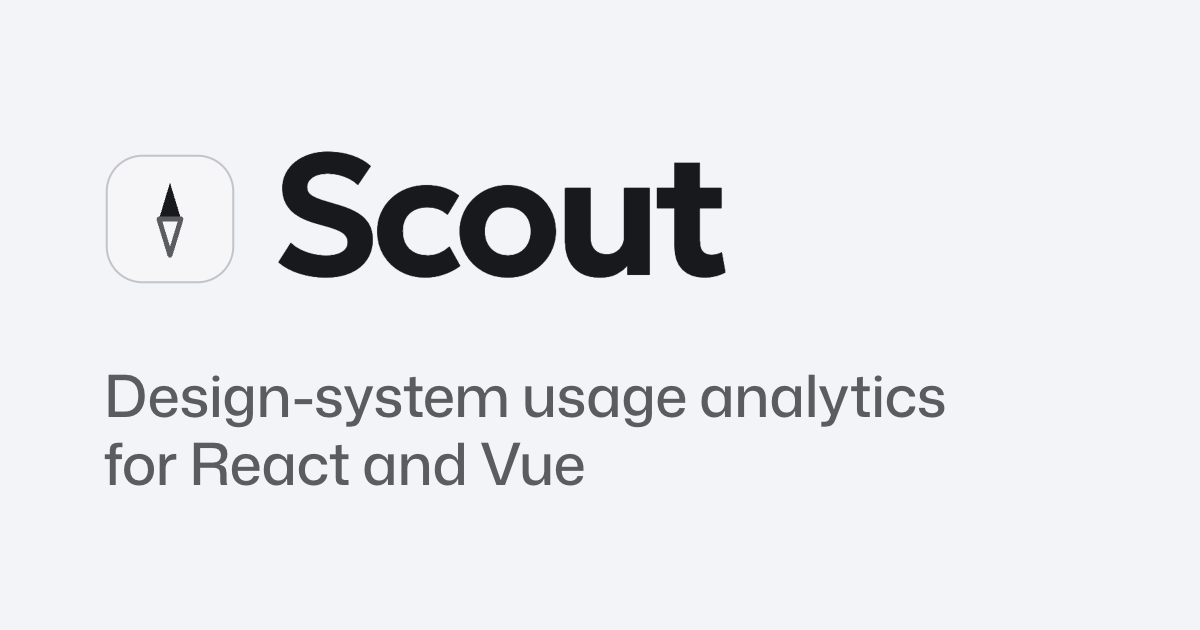
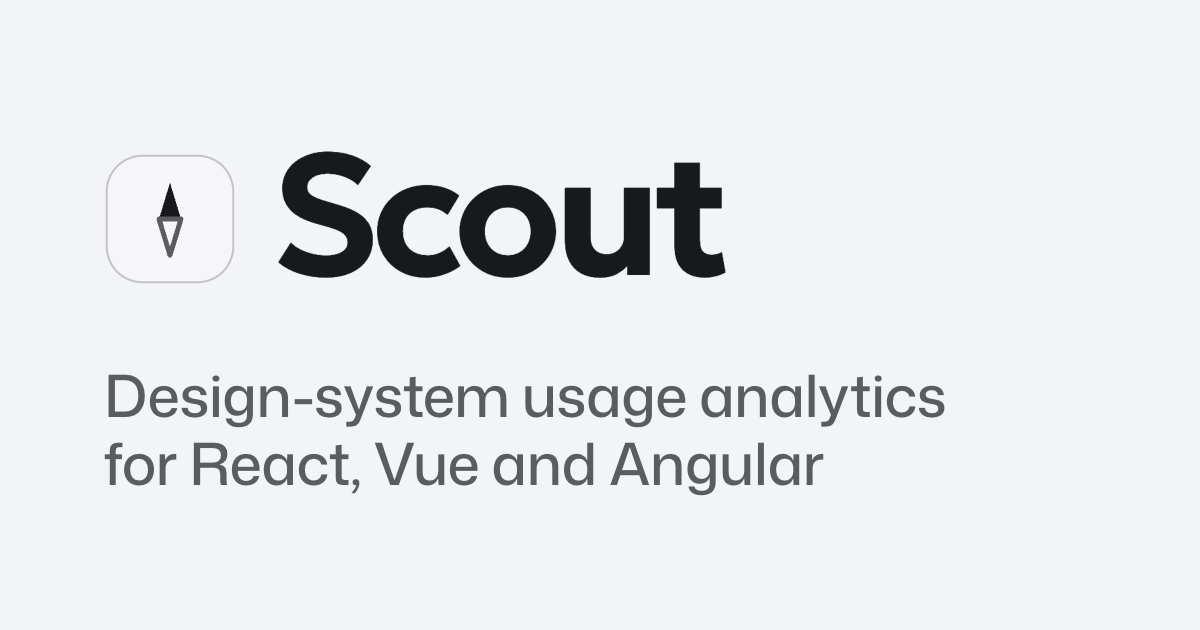
docs: mention Angular alongside React and Vue (#184)

Changed region(s): [[0.2775, 0.6937, 0.6783, 0.7841]]

diff --git a/apps/docs/src/pages/index.tsx b/apps/docs/src/pages/index.tsx
@@ -7,12 +7,12 @@ import Stages from "../components/landing/Stages";
 import { PRODUCT_NAME } from "../components/landing/product";
 import shared from "../components/landing/shared.module.css";
 
-const TITLE = `${PRODUCT_NAME}: design-system usage analytics for React and Vue`;
+const TITLE = `${PRODUCT_NAME}: design-system usage analytics for React, Vue and Angular`;
 
 export default function Home(): React.ReactElement {
   return (
     <Layout
-      description={`${PRODUCT_NAME} scans React and Vue repos, web components included, for every component, every use and every prop value, and a dashboard you host tracks migrations across every repo.`}
+      description={`${PRODUCT_NAME} scans React, Vue and Angular repos, web components included, for every component, every use and every prop value, and a dashboard you host tracks migrations across every repo.`}
     >
       <Head>
         <title>{TITLE}</title>

diff --git a/apps/docs/src/components/landing/Hero.tsx b/apps/docs/src/components/landing/Hero.tsx
@@ -229,7 +229,7 @@ export default function Hero(): React.ReactElement {
             <div className={styles.pitch}>
               <p className={styles.lede}>
                 <span className={styles.sentence}>
-                  Usage analytics for design-system teams, built for React and Vue.
+                  Usage analytics for design-system teams, built for React, Vue and Angular.
                 </span>{" "}
                 <span className={styles.sentence}>
                   Open source and <span className={shared.nowrap}>self-hosted</span>, so nothing leaves your

diff --git a/apps/docs/social-card/card.html b/apps/docs/social-card/card.html
@@ -57,6 +57,6 @@ body {
     </svg>
     <div class="name">Scout</div>
   </div>
-  <p class="line"><span>Design-system usage analytics</span><span>for React and Vue</span></p>
+  <p class="line"><span>Design-system usage analytics</span><span>for React, Vue and Angular</span></p>
 </body>
 </html>

diff --git a/apps/docs/docusaurus.config.ts b/apps/docs/docusaurus.config.ts
@@ -28,7 +28,7 @@ const darkCodeTheme = {
 
 const config: Config = {
   title: "Scout",
-  tagline: "Design-system usage analytics for React and Vue",
+  tagline: "Design-system usage analytics for React, Vue and Angular",
   favicon: "img/favicon.svg",
 
   url: "https://scoutui.dev",

diff --git a/README.md b/README.md
@@ -17,7 +17,7 @@ _An open-source dashboard and CLI that track which components your teams use, wh
 
 ## What is Scout?
 
-Scout is an adoption dashboard for design-system teams. Its CLI scans a React or Vue repository, web components included, and records every component the code uses, where it's used and with which props. The dashboard collects those scans from all your repos, so you can see adoption at a glance, plan migrations and track each one until it's done.
+Scout is an adoption dashboard for design-system teams. Its CLI scans a React, Vue or Angular repository, web components included, and records every component the code uses, where it's used and with which props. The dashboard collects those scans from all your repos, so you can see adoption at a glance, plan migrations and track each one until it's done.
 
 ## Features
 

diff --git a/packages/cli/README.md b/packages/cli/README.md
@@ -2,7 +2,7 @@
 
 The CLI for [Scout](https://scoutui.dev), the design-system adoption dashboard.
 
-It scans a React or Vue repository, web components included, and records every component the code uses, where it's used and with which props. `scout scan` uploads that scan to a [Scout dashboard](https://scoutui.dev/docs/tutorials/explore-the-dashboard), where you compare repos, track migrations and follow adoption over time.
+It scans a React, Vue or Angular repository, web components included, and records every component the code uses, where it's used and with which props. `scout scan` uploads that scan to a [Scout dashboard](https://scoutui.dev/docs/tutorials/explore-the-dashboard), where you compare repos, track migrations and follow adoption over time.
 
 ## Get started
 
